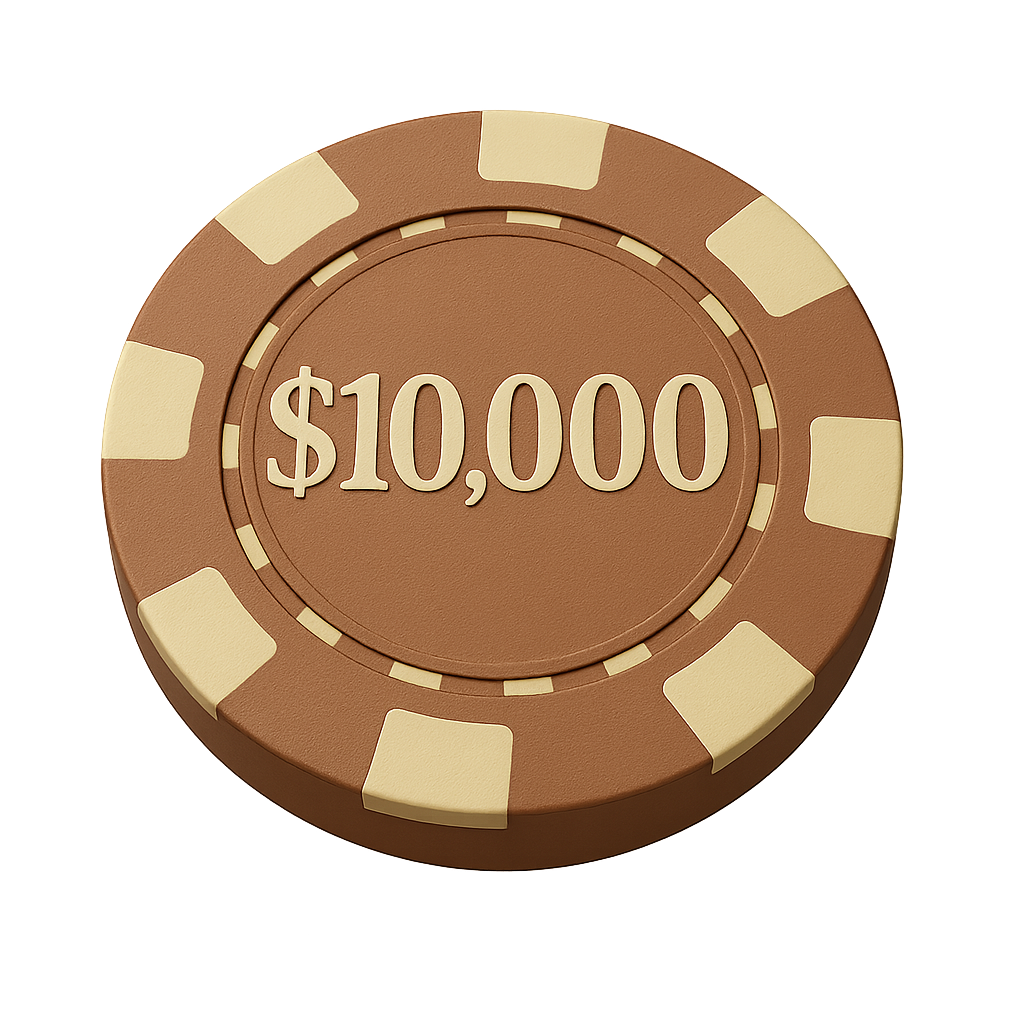
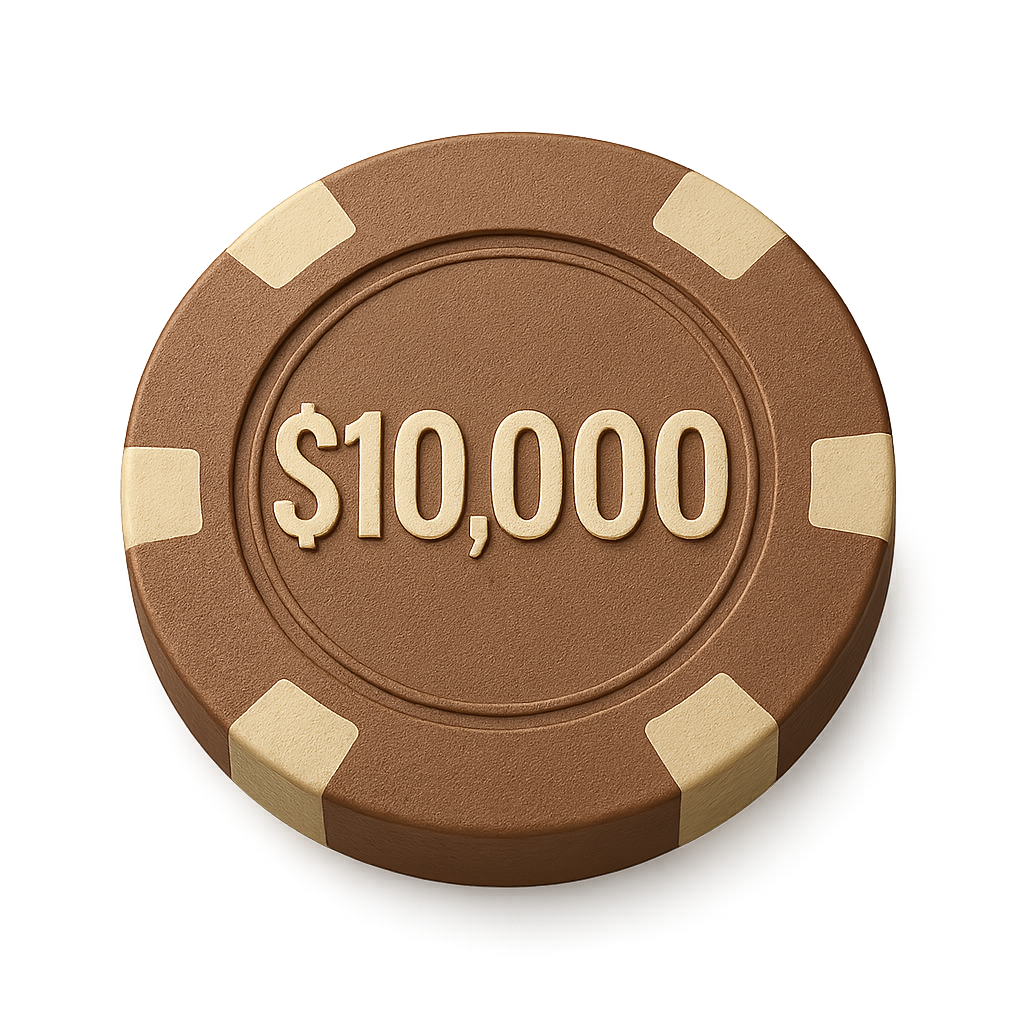
refactor(ChipsAnimate): update imgs with more texture and embossment, adjust fall range of chips to top of screen

diff --git a/src/components/backgrounds/ChipsAnimate.js b/src/components/backgrounds/ChipsAnimate.js
@@ -4,8 +4,11 @@ import green from "/chips/green.png";
 import yellow from "/chips/yellow.png";
 import brown from "/chips/brown.png";
 import gray from "/chips/gray.png";
+import pink from "/chips/pink.png";
+import custom from "/chips/custom.png";
+import "../../style.css";
 
-const chipImages = [purple, green, yellow, brown, gray];
+const chipImages = [purple, green, yellow, brown, gray, pink, custom];
 
 export function renderChipFall() {
   const canvas = document.createElement("canvas");

diff --git a/src/style.css b/src/style.css
@@ -23,13 +23,8 @@ canvas {
   height: 100%;
 }
 
-#starfield {
-  z-index: 2;
-}
-
 #skyline {
   z-index: 1;
-  /* mix-blend-mode: screen; */
 }
 
 .hero {
@@ -154,4 +149,14 @@ canvas {
     opacity: 0.6;
     text-shadow: 0 0 1px #000;
   }
+}
+
+.chip-canvas {
+  position: fixed;
+  top: 0;
+  left: 0;
+  z-index: 1;
+  width: 100vw;
+  height: 100vh;
+  pointer-events: none;
 }
